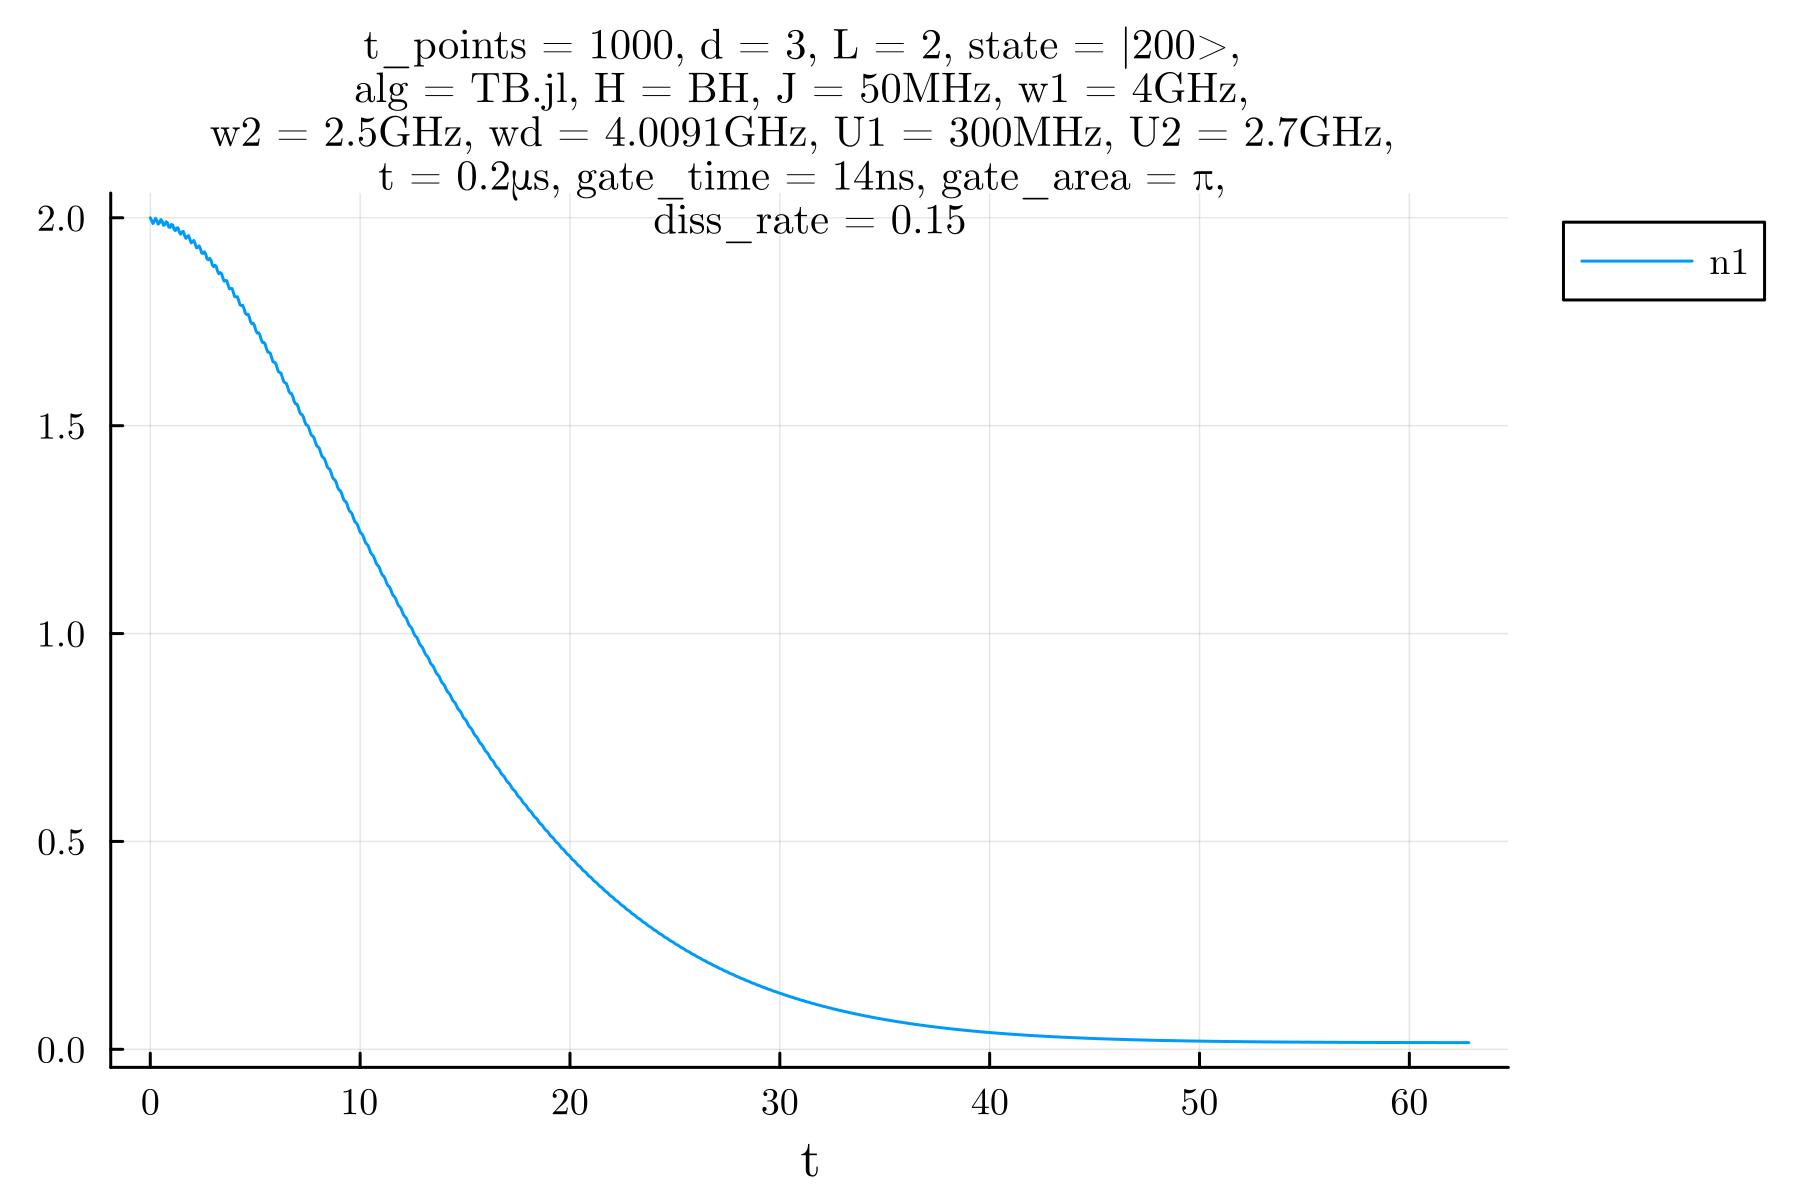
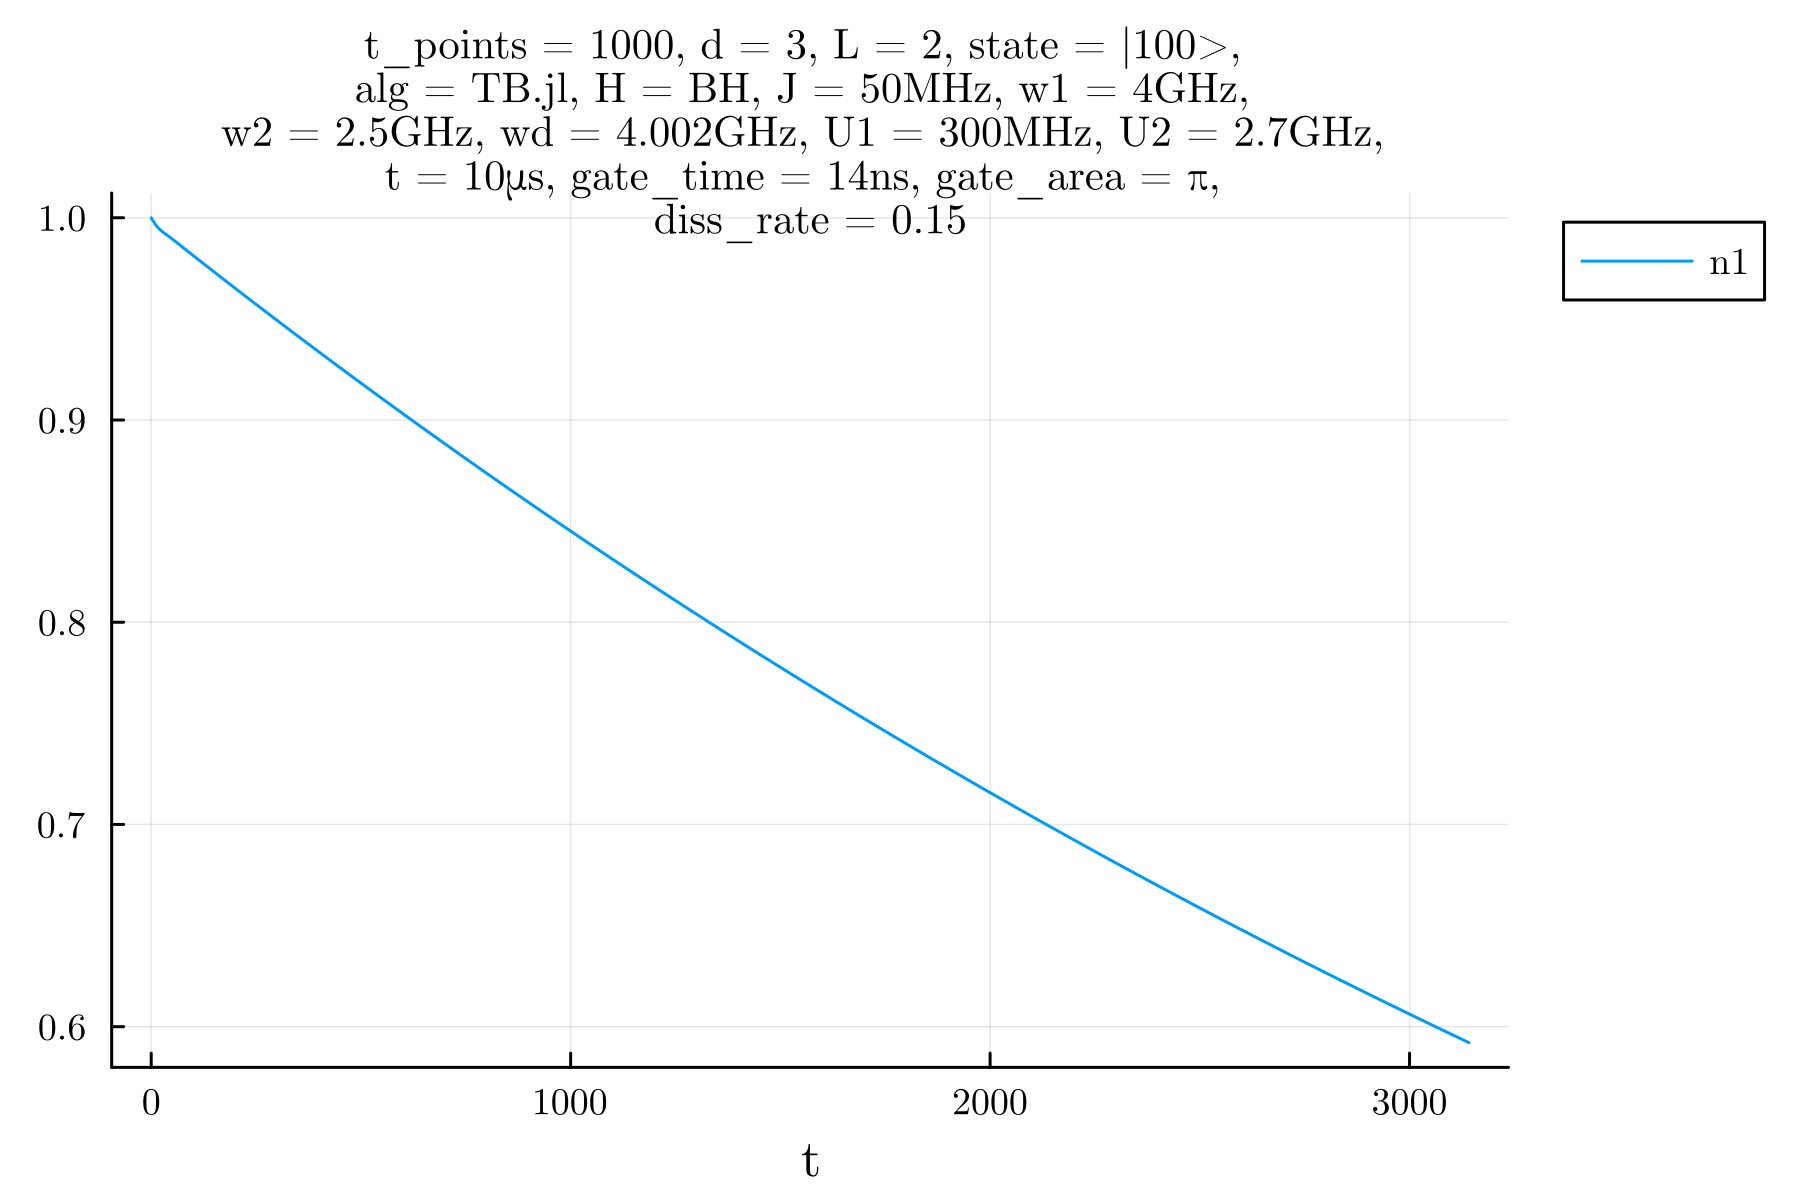
python code works omg

diff --git a/LRUFUP_Vault/Data/IQMResonance/TestingPython/hello.py b/LRUFUP_Vault/Data/IQMResonance/TestingPython/hello.py
@@ -1,6 +1,5 @@
-from qiskit import QuantumCircuit
-from qiskit import transpile
-from iqm.qiskit_iqm import IQMFakeGarnet
+from qiskit import QuantumCircuit, transpile
+from iqm.qiskit_iqm import IQMFakeAphrodite
 import matplotlib.pyplot as plt
 
 num_qb = 11
@@ -18,9 +17,9 @@ qc.cx(2, 8)
 qc.cx(2, 9)
 qc.cx(2, 10)
 qc.barrier()
+qc.measure_all()
 
-
-backend = IQMFakeGarnet()
+backend = IQMFakeAphrodite()
 
 qc_transpiled = transpile(qc, backend)
 job = backend.run(qc_transpiled, shots=1000)
@@ -42,5 +41,4 @@ ax.set_xticks(x_ticks)
 
 plt.show()
 
-qc.measure_all()
 print(qc.draw(output='text'))
